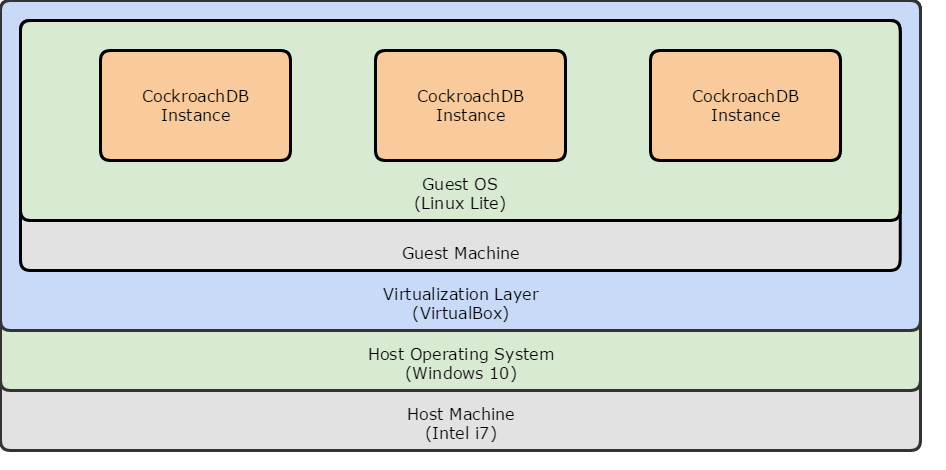
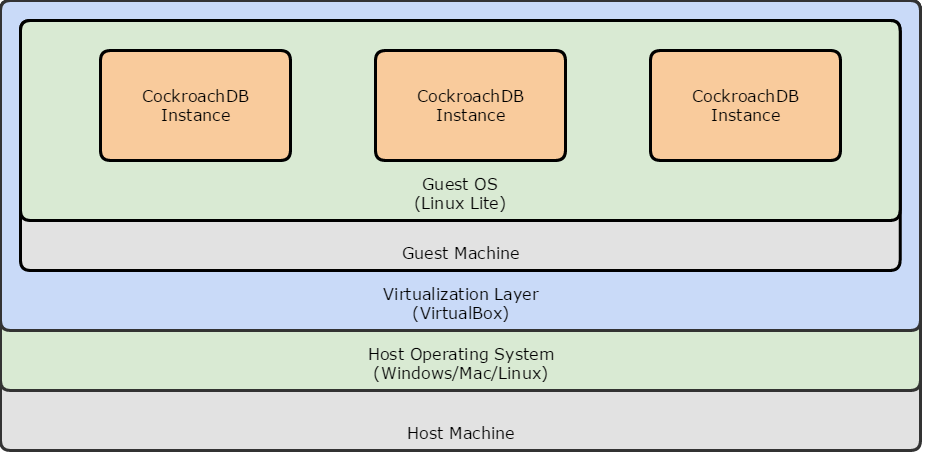
Mac changes

Changed region(s): [[0.4292, 0.8638, 0.5518, 0.9532], [0.3985, 0.7745, 0.5825, 0.8043]]

diff --git a/cockroach-vb-single/cockroach-vb-single_vm_install_and_configure.md b/cockroach-vb-single/cockroach-vb-single_vm_install_and_configure.md
@@ -40,7 +40,11 @@ Use the uncompress utility installed previously to extract the VirtualBox disk i
 
 ### On Mac
 
-1. Use **The Unarchiver** utility to uncompress the disk image into the `cockroach-vb-single` directory under your `Home` folder.
+1. The downloaded .7z file should already be associated with **The Unarchiver** utility. Double-click on the file to extract the disk image. Uncompress the disk image into the `cockroach-vb-single` directory. By default the utility will create a `64bit` directory that contains the extracted disk image. 
+
+![Unarchiver](images/Unarchiver.png)
+
+![Unarchiver extracting](images/Unarchiver_extracting.png)
 
 
 ### On Linux
@@ -128,6 +132,16 @@ The `Create_VM` script will:
 ### On Mac
 
 1. On the host machine, using the **Terminal** application, change directory into `/Users/<username>/cockroach-vb-single` and execute the `Create_VM.bash` script. You may need to change the file's execute permissions to do so.
+
+```Shell
+iMac:cockroach-vb-single uptimeDBA$ ./Create_VM.bash 
+Virtual machine 'CockroachDB' is created and registered.
+UUID: df120c2a-bac3-4dc8-b7e1-dd77087e86ba
+Settings file: '/Users/uptimeDBA/VirtualBox VMs/CockroachDB/CockroachDB.vbox'
+Waiting for VM "CockroachDB" to power on...
+VM "CockroachDB" has been successfully started.
+iMac:cockroach-vb-single uptimeDBA$ 
+```
 
 
 ### On Linux
